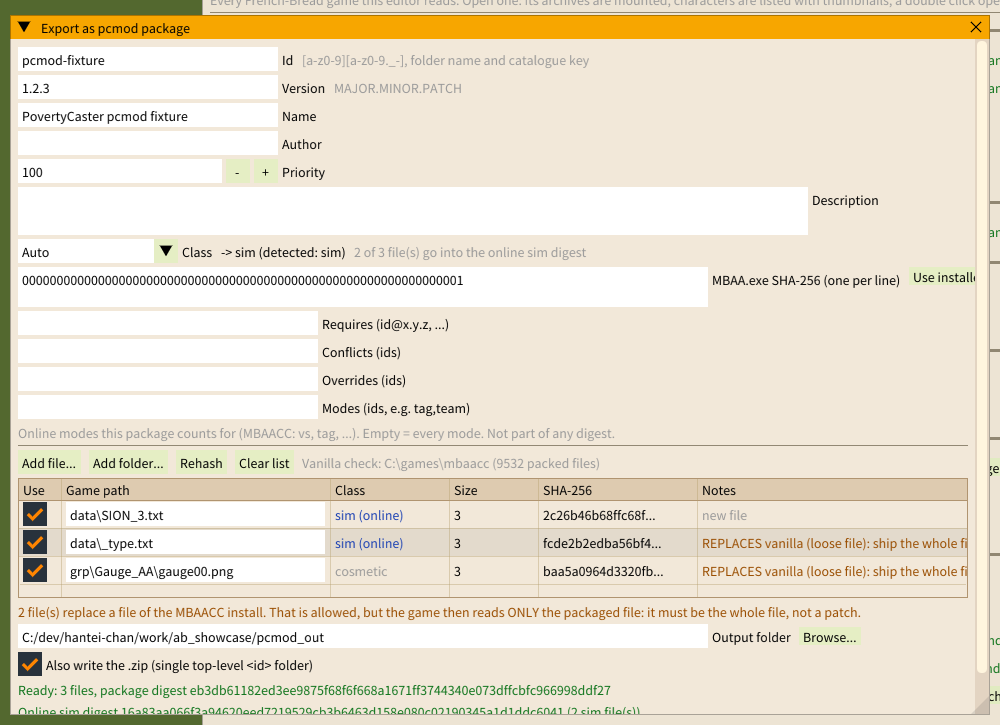
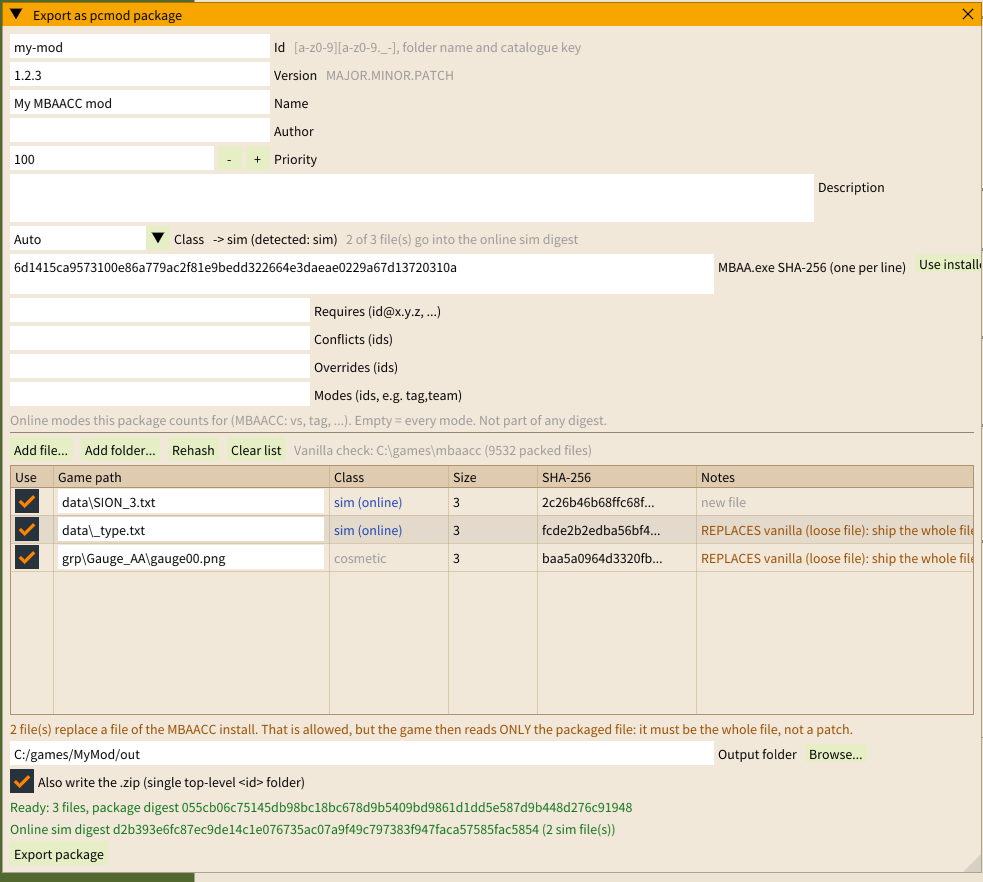
docs: showcase 2026-10-16 feature shots retaken (decoded stage names, Squirrel hover and problems, CG + .pat textures tab, pcmod export report, neutral game paths)

diff --git a/docs/showcase_2026-10-16/scripts/ui/crop_features.py b/docs/showcase_2026-10-16/scripts/ui/crop_features.py
@@ -1,0 +1,21 @@
+#!/usr/bin/env python3
+"""crop_features.py <shot dir> <features dir>: cut each feature window out of the full-frame --ui-script capture.
+The boxes are the windows' rects in the 1884x961 client area that run_features.sh produces (ab_shot.sh 1900x1000 layout)."""
+import sys
+from PIL import Image
+
+BOXES = {   # name: (left, top, right, bottom); the squirrel hover box also covers the tooltip, the game link box the sprite
+    'feat_squirrel_hover': (58, 58, 1130, 756),
+    'feat_squirrel_problems': (58, 58, 1060, 756),
+    'feat_stage3d_uni2_align': (58, 58, 961, 700),
+    'feat_stage3d_mbtl_align': (58, 58, 961, 700),
+    'feat_cgm_uni2_palettes': (58, 58, 1261, 880),
+    'feat_cgm_uni2_textures': (58, 58, 1261, 880),
+    'feat_gamelink_panel': (60, 58, 1100, 700),
+    'pcmod_export_window': (98, 68, 1081, 950),
+    'pcmod_export_done': (98, 68, 1081, 950),
+}
+src, dst = sys.argv[1], sys.argv[2]
+for name, box in BOXES.items():
+    Image.open(f'{src}/{name}.png').convert('RGB').crop(box).save(f'{dst}/{name}.png', optimize=True)
+    print(name, box)

diff --git a/docs/showcase_2026-10-16/README.md b/docs/showcase_2026-10-16/README.md
@@ -51,14 +51,20 @@ master 7e97e19). The second row is |game - tool| x4. All per-case data is in `ma
   axis lines, and reads back the frame. Its render code is unchanged.
 
 ## Features with no equivalent in sosfiro or gonp (`features/`)
-- CG manager: an MBAACC bank insert/replace shown in game (`cgm_mbaacc_ingame_*.jpg`, from `docs/cg/evidence/`), and
-  UNI2 palette pairs (`feat_cgm_uni2_palettes.png`).
-- The Squirrel script panel (`feat_squirrel_hover.png`). The scripted hover does not draw its tooltip into the capture.
-- The 3D stage view with MBAACC camera alignment (`feat_stage3d_*_align.png`).
-- The game link / hot-reload panel (`feat_gamelink_panel.png`, with no game attached).
+- CG manager: an MBAACC bank insert/replace shown in game (`cgm_mbaacc_ingame_*.jpg`, from `docs/cg/evidence/`),
+  UNI2 palette pairs (`feat_cgm_uni2_palettes.png`) and the unified "CG + .pat textures" tab on UNI2 chr020, with CG images
+  and .pat textures side by side (`feat_cgm_uni2_textures.png`).
+- The Squirrel script panel with the UNI2 API table loaded (536 natives): a hover tooltip on an engine native
+  (`feat_squirrel_hover.png`) and the Problems tab after a check (`feat_squirrel_problems.png`).
+- The 3D stage view with MBAACC camera alignment (`feat_stage3d_*_align.png`). The BgList stage name is decoded from cp932.
+- The game link / hot-reload panel (`feat_gamelink_panel.png`, with no game attached; hitbox overlay off).
 - PovertyCaster .pcmod export (`pcmod_export_*.png`).
+
+The feature shots were retaken on 2026-10-16 with branch fix/showcase-polish. The scripts read the games through neutral
+folders: `C:\games\UNI2` and `C:\games\MBTL` are junctions to the game data, and `C:\games\MyMod` holds a copy of the pcmod
+fixture. `scripts/ui/crop_features.py` cuts each window out of the full frame.
 
 ## Reproduce
 `scripts/shoot_others.sh {sosfiro|gonp} <cases>`, then `tools/uni/s1_compare/shoot_batch.sh` (with
 `OUTDIR=work/bw_ours`), then `scripts/run_cases.sh`, `scripts/make_sheets.py`, `scripts/mbaacc_sheet.py` and
-`scripts/ui/run_features.sh`. The raw shots in `work/` are not committed.
+`scripts/ui/run_features.sh` and `scripts/ui/crop_features.py`. The raw shots in `work/` are not committed.
